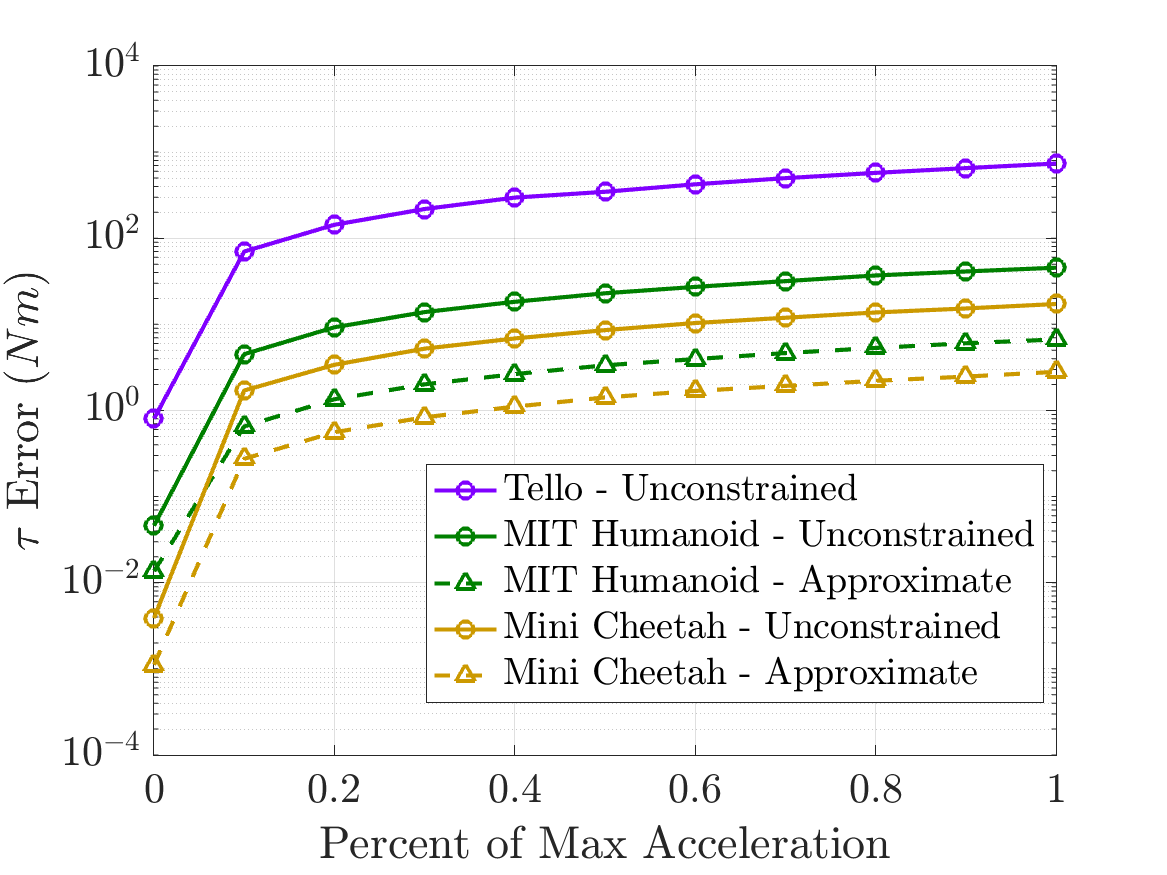
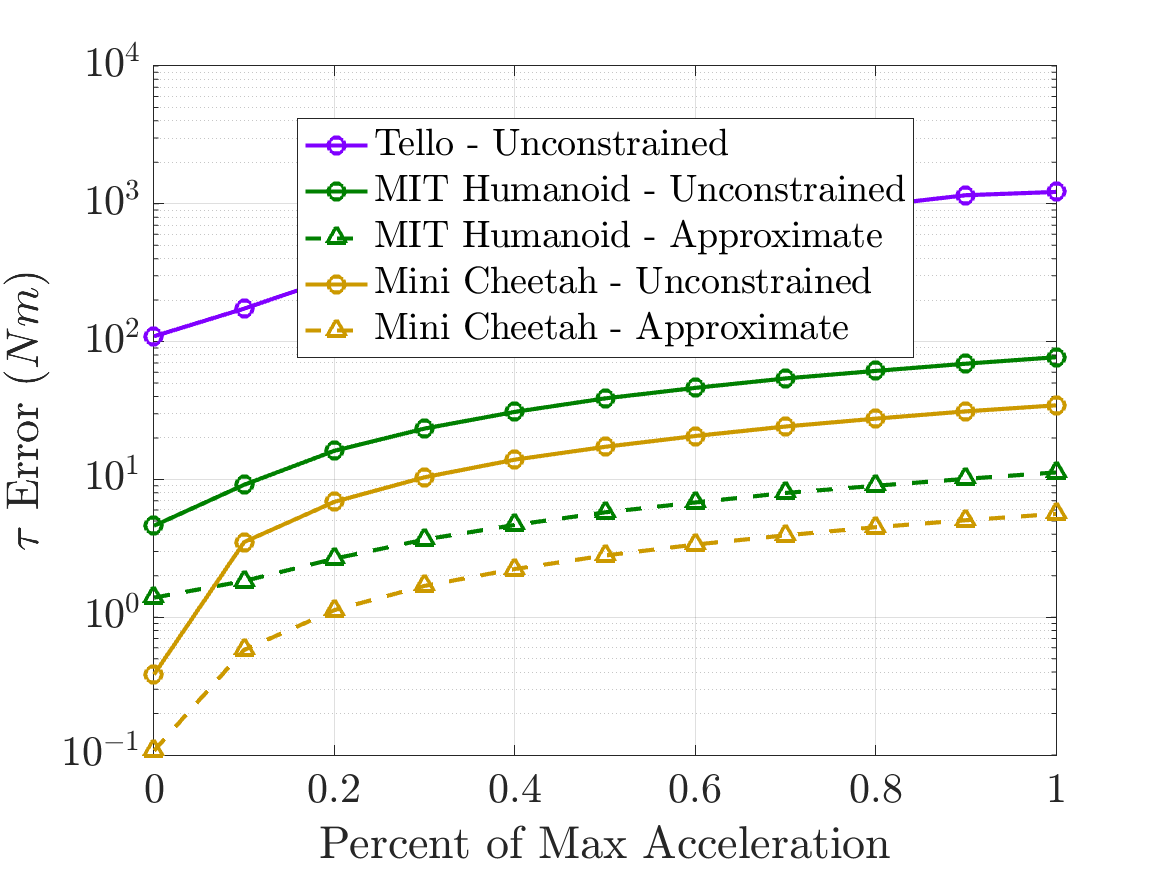
Accuracy benchmark script was dividing by the wrong number of samples

diff --git a/Benchmarking/accuracyBenchmarkRobots.cpp b/Benchmarking/accuracyBenchmarkRobots.cpp
@@ -22,6 +22,8 @@ bool setRandomStates(ClusterTreeModel &cf_model,
     for (const auto &cluster : cf_model.clusters())
     {
         JointState joint_state = cluster->joint_->randomJointState();
+        joint_state.velocity *= 10.;
+
         if (joint_state.position.hasNaN())
         {
             return true;
@@ -81,8 +83,7 @@ void runInverseDynamicsBenchmark(std::ofstream &file, const double max_torque)
     const int nv = model_cl.getNumDegreesOfFreedom();
 
     const double alpha_rate = 0.1;
-    const int num_samples_per_alpha = 500;
-    int total_samples = 0;
+    const int num_samples_per_alpha = 2000.;
     for (double alpha = 0.; alpha <= 1.; alpha += alpha_rate)
     {
         double id_error = 0.;
@@ -112,14 +113,12 @@ void runInverseDynamicsBenchmark(std::ofstream &file, const double max_torque)
             id_error += (tau_cluster - tau_approx).norm();
             id_diag_error += (tau_cluster - tau_diag_approx).norm();
             id_none_error += (tau_cluster - tau_none_approx).norm();
-
-            total_samples++;
         }
 
         file << alpha << ","
-             << id_none_error / total_samples << ","
-             << id_diag_error / total_samples << ","
-             << id_error / total_samples << std::endl;
+             << id_none_error / num_samples_per_alpha << ","
+             << id_diag_error / num_samples_per_alpha << ","
+             << id_error / num_samples_per_alpha << std::endl;
     }
 }
 
@@ -135,8 +134,7 @@ void runForwardDynamicsBenchmark(std::ofstream &file, const double max_torque)
     const int nv = model_cl.getNumDegreesOfFreedom();
 
     const double alpha_rate = 0.1;
-    const int num_samples_per_alpha = 500;
-    int total_samples = 0;
+    const int num_samples_per_alpha = 2000;
     for (double alpha = 0.; alpha <= 1.; alpha += alpha_rate)
     {
         double fd_diag_error = 0.;
@@ -160,13 +158,11 @@ void runForwardDynamicsBenchmark(std::ofstream &file, const double max_torque)
 
             fd_diag_error += (qdd_cluster - qdd_diag_approx).norm();
             fd_none_error += (qdd_cluster - qdd_none_approx).norm();
-
-            total_samples++;
         }
 
         file << alpha << ","
-             << fd_none_error / total_samples << ","
-             << fd_diag_error / total_samples << std::endl;
+             << fd_none_error / num_samples_per_alpha << ","
+             << fd_diag_error / num_samples_per_alpha << std::endl;
     }
 }
 
@@ -182,7 +178,7 @@ void runInverseOperationalSpaceInertiaBenchmark(std::ofstream &file)
     double lambda_inv_diag_error = 0.;
     double lambda_inv_none_error = 0.;
 
-    const int num_samples = 500;
+    const int num_samples = 2000;
     for (int j = 0; j < num_samples; j++)
     {
         bool nan_detected = setRandomStates(model_cl, model_rf, model_rf_diag, model_rf_none);
@@ -216,10 +212,9 @@ void runApplyTestForceBenchmark(std::ofstream &file, const std::string contact_p
 
     const int nv = model_cl.getNumDegreesOfFreedom();
 
-    const double alpha_rate = 0.1;
+    const double alpha_rate = 0.25;
     const double offset = 0.01;
-    const int num_samples_per_alpha = 500;
-    int total_samples = 0;
+    const int num_samples_per_alpha = 100;
     for (double alpha = offset; alpha <= (1. + offset); alpha += alpha_rate)
     {
         double dstate_diag_error = 0.;
@@ -248,13 +243,11 @@ void runApplyTestForceBenchmark(std::ofstream &file, const std::string contact_p
 
             dstate_diag_error += (dstate_cluster - dstate_diag_approx).norm();
             dstate_none_error += (dstate_cluster - dstate_none_approx).norm();
-
-            total_samples++;
         }
 
         file << alpha << ","
-             << dstate_none_error / total_samples << ","
-             << dstate_diag_error / total_samples << std::endl;
+             << dstate_none_error / num_samples_per_alpha << ","
+             << dstate_diag_error / num_samples_per_alpha << std::endl;
     }
 }
 
@@ -265,10 +258,10 @@ int main()
     std::string path_to_data = "../Benchmarking/data/AccuracyID_";
     std::ofstream id_file;
     id_file.open(path_to_data + "Robots.csv");
-    runInverseDynamicsBenchmark<TelloWithArms>(id_file, 30.);
+    runInverseDynamicsBenchmark<TelloWithArms>(id_file, 50.);
     // runInverseDynamicsBenchmark<Tello>(id_file);
-    runInverseDynamicsBenchmark<MIT_Humanoid>(id_file, 30.);
-    runInverseDynamicsBenchmark<MiniCheetah>(id_file, 15.);
+    runInverseDynamicsBenchmark<MIT_Humanoid>(id_file, 50.);
+    runInverseDynamicsBenchmark<MiniCheetah>(id_file, 30.);
     id_file.close();
 
     // Forward Dynamics Benchmark
@@ -276,10 +269,10 @@ int main()
     path_to_data = "../Benchmarking/data/AccuracyFD_";
     std::ofstream fd_file;
     fd_file.open(path_to_data + "Robots.csv");
-    runForwardDynamicsBenchmark<TelloWithArms>(fd_file, 30.);
+    runForwardDynamicsBenchmark<TelloWithArms>(fd_file, 50.);
     // runForwardDynamicsBenchmark<Tello>(fd_file);
-    runForwardDynamicsBenchmark<MIT_Humanoid>(fd_file, 30.);
-    runForwardDynamicsBenchmark<MiniCheetah>(fd_file, 15.);
+    runForwardDynamicsBenchmark<MIT_Humanoid>(fd_file, 50.);
+    runForwardDynamicsBenchmark<MiniCheetah>(fd_file, 20.);
     fd_file.close();
 
     // Inverse Operational Space Inertia Matrix Benchmark
@@ -298,9 +291,9 @@ int main()
     path_to_data = "../Benchmarking/data/AccuracyATF_";
     std::ofstream atf_file;
     atf_file.open(path_to_data + "Robots.csv");
-    runApplyTestForceBenchmark<TelloWithArms>(atf_file, "left-toe_contact", 100.);
+    runApplyTestForceBenchmark<TelloWithArms>(atf_file, "left-toe_contact", 500.);
     // runApplyTestForceBenchmark<Tello>(atf_file, "left-toe_contact");
-    runApplyTestForceBenchmark<MIT_Humanoid>(atf_file, "left_toe_contact", 100.);
-    runApplyTestForceBenchmark<MiniCheetah>(atf_file, "FL_foot_contact", 50.);
+    runApplyTestForceBenchmark<MIT_Humanoid>(atf_file, "left_toe_contact", 500.);
+    runApplyTestForceBenchmark<MiniCheetah>(atf_file, "FL_foot_contact", 150.);
     atf_file.close();
 }
